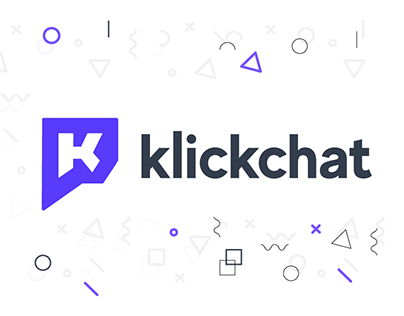
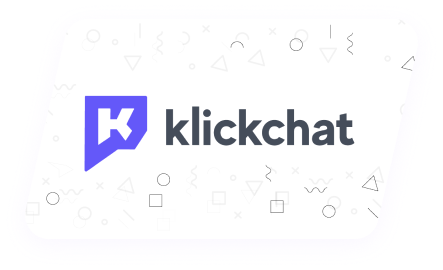
0.2

diff --git a/css/main.min.css b/css/main.min.css
@@ -1,1 +1,1 @@
-body{font-family:"Poppins", sans-serif;background:#edf2f7}.container{max-width:1110px;margin:0 auto}.wip{margin-top:40px;margin-bottom:80px}.wip .wip-header{display:-webkit-box;display:-ms-flexbox;display:flex;-ms-flex-line-pack:center;align-content:center;-webkit-box-pack:start;-ms-flex-pack:start;justify-content:flex-start}.wip svg{width:24px;display:inline-block}.wip h1{margin-left:5px;margin-bottom:5px;display:inline-block;color:#718096}.wip li{color:#A0AEC0;font-size:12px}section .project-card{-webkit-transform-style:preserve-3d;transform-style:preserve-3d;width:405px}section .project-card .image-holder .image-holder--image{height:220px;border-radius:24px;display:inline-block}section .project-card .image-holder .image-holder--image::after{background:url("/img/projects/klickchat.png");background-position:center;background-size:cover;height:220px;width:405px;border-radius:24px;position:absolute;content:"";top:0;left:0;-webkit-transform:skew(-10deg);transform:skew(-10deg);z-index:-1;-webkit-box-shadow:0px 6px 25px rgba(184,149,245,0.08);box-shadow:0px 6px 25px rgba(184,149,245,0.08);border-radius:24px}section .project-card .info-center{-webkit-transform:translateZ(50px);transform:translateZ(50px);margin:0 auto;width:60%;margin-top:-65px}section .project-card .info{margin:0 auto;padding:20px 24px 5px 24px}section .project-card .info::after{background:#ffffff;-webkit-box-shadow:0px 8px 24px rgba(214,188,250,0.35);box-shadow:0px 8px 24px rgba(214,188,250,0.35);height:100%;width:100%;border-radius:10px;position:absolute;content:"";top:0;left:0;-webkit-transform:skew(-10deg);transform:skew(-10deg);z-index:-1}section .project-card .info .sub-heading{border-radius:99px;font-style:normal;font-weight:500;font-size:12px;line-height:18px;letter-spacing:0.02em;text-transform:uppercase;color:#9f7aea;padding:5px 17px;background-color:#e8e6fe;margin-bottom:5px;-webkit-box-align:center;-ms-flex-align:center;align-items:center}section .project-card .info .title{font-style:normal;font-weight:500;font-size:24px;line-height:36px;color:#1a202c;-webkit-box-align:center;-ms-flex-align:center;align-items:center}
+body{font-family:"Poppins", sans-serif;background:#edf2f7;border-top:8px solid #4d47ef;-webkit-transition-timing-function:ease-in-out;transition-timing-function:ease-in-out}.container{max-width:1110px;margin:0 auto}.tracking-in-contract-bck{-webkit-animation:tracking-in-contract-bck 1s cubic-bezier(0.215, 0.61, 0.355, 1) 100ms both;animation:tracking-in-contract-bck 1s cubic-bezier(0.215, 0.61, 0.355, 1) 100ms both}@-webkit-keyframes tracking-in-contract-bck{0%{letter-spacing:1em;-webkit-transform:translateZ(400px);transform:translateZ(400px);opacity:0}40%{opacity:0.6}100%{-webkit-transform:translateZ(0);transform:translateZ(0);opacity:1}}@keyframes tracking-in-contract-bck{0%{letter-spacing:1em;-webkit-transform:translateZ(400px);transform:translateZ(400px);opacity:0}40%{opacity:0.6}100%{-webkit-transform:translateZ(0);transform:translateZ(0);opacity:1}}.gradient{background-image:linear-gradient(264deg, #4d47ef, #9733ee, #da22ff);background-size:600% 600%;-webkit-animation:AnimationName 5s ease infinite;animation:AnimationName 5s ease infinite;background-clip:text}@-webkit-keyframes AnimationName{0%{background-position:0% 50%}50%{background-position:100% 50%}100%{background-position:0% 50%}}@keyframes AnimationName{0%{background-position:0% 50%}50%{background-position:100% 50%}100%{background-position:0% 50%}}.wip{position:fixed;left:40px;margin-top:40px;margin-bottom:80px}.wip .wip-header{display:-webkit-box;display:-ms-flexbox;display:flex;-ms-flex-line-pack:center;align-content:center;-webkit-box-pack:start;-ms-flex-pack:start;justify-content:flex-start}.wip svg{width:24px;display:inline-block}.wip h1{margin-left:5px;margin-bottom:5px;display:inline-block;color:#718096}.wip li{color:#a0aec0;font-size:12px}header{height:600px;display:-webkit-box;display:-ms-flexbox;display:flex;-webkit-box-orient:vertical;-webkit-box-direction:normal;-ms-flex-direction:column;flex-direction:column;-webkit-box-pack:center;-ms-flex-pack:center;justify-content:center;-webkit-box-align:center;-ms-flex-align:center;align-items:center;-ms-flex-line-pack:center;align-content:center;background:-webkit-gradient(linear, left top, left bottom, from(white), to(#edf2f7));background:linear-gradient(to bottom, white, #edf2f7)}header .big-text h1{font-size:144px;font-weight:600;line-height:90%;text-align:center;background-image:linear-gradient(264deg, #4d47ef, #7d00dc, #c17af8);background-size:600% 600%;-webkit-animation:AnimationName 5s ease infinite;animation:AnimationName 5s ease infinite;background-clip:text;background-size:600%;background-repeat:repeat;-webkit-background-clip:text;-webkit-text-fill-color:transparent}section{padding:5rem 0}section .image-holder{margin:0 auto;max-width:100%}section img{display:inline-block;-webkit-filter:grayscale(100%);filter:grayscale(100%);opacity:0.5;-webkit-transition:all 0.1s ease-in-out;transition:all 0.1s ease-in-out}section .project-card-grid{display:-ms-grid;display:grid;-ms-grid-columns:(minmax(440px, 1fr))[auto-fit];grid-template-columns:repeat(auto-fit, minmax(440px, 1fr));justify-items:safe center;-webkit-box-align:center;-ms-flex-align:center;align-items:center;-webkit-box-pack:justify;-ms-flex-pack:justify;justify-content:space-between;-ms-flex-line-pack:justify;align-content:space-between}section .project-card{-webkit-transform-style:preserve-3d;transform-style:preserve-3d;width:450px;margin-bottom:85px}section .project-card .info-center{-webkit-transform:translateZ(50px);transform:translateZ(50px);margin-left:90px;width:228px;margin-top:-85px}section .project-card .info{padding:20px 24px 5px 24px}section .project-card .info::after{background:#fff;height:100%;width:100%;border-radius:10px;position:absolute;content:"";top:0;left:0;-webkit-transform:skew(-10deg);transform:skew(-10deg);z-index:-1;-webkit-transition:all 0.1s ease-in-out;transition:all 0.1s ease-in-out;-webkit-box-shadow:0px 8px 24px rgba(214,188,250,0);box-shadow:0px 8px 24px rgba(214,188,250,0)}section .project-card .info .sub-heading{border-radius:99px;font-style:normal;font-weight:500;font-size:12px;line-height:18px;letter-spacing:0.02em;text-transform:uppercase;color:#9f7aea;padding:5px 17px;background-color:#e8e6fe;margin-bottom:3px;-webkit-box-align:center;-ms-flex-align:center;align-items:center;display:inline-block}section .project-card .info .title{font-style:normal;font-weight:500;font-size:24px;line-height:36px;color:#1a202c;-webkit-box-align:center;-ms-flex-align:center;align-items:center;display:inline-block}section .project-card:hover img{-webkit-filter:grayscale(0%);filter:grayscale(0%);opacity:1;-webkit-filter:drop-shadow(0px 6px 25px rgba(184,149,245,0.08));filter:drop-shadow(0px 6px 25px rgba(184,149,245,0.08))}section .project-card:hover .info::after{-webkit-transition:all 2s ease;transition:all 2s ease;-webkit-box-shadow:0px 8px 24px rgba(214,188,250,0.35);box-shadow:0px 8px 24px rgba(214,188,250,0.35)}

diff --git a/index.html b/index.html
@@ -13,6 +13,7 @@
             rel="stylesheet"
         />
         <link rel="stylesheet" href="css/main.min.css" />
+        <link rel="stylesheet" href="https://unpkg.com/aos@next/dist/aos.css" />
     </head>
     <body>
         <div class="wip container">
@@ -30,29 +31,83 @@
                         d="M12 9v2m0 4h.01m-6.938 4h13.856c1.54 0 2.502-1.667 1.732-3L13.732 4c-.77-1.333-2.694-1.333-3.464 0L3.34 16c-.77 1.333.192 3 1.732 3z"
                     />
                 </svg>
-                <h1>Work in progress! TODO:</h1>
+                <h1>Work in progress! </h1>
             </div>
-            <ul>
-                <li>- Add before hover state.</li>
+            <!-- <ul>
                 <li>- Mobile responsive design.</li>
                 <li>- Add link to behance project.</li>
-            </ul>
+            </ul> -->
         </div>
+
+        <header id="tsparticles">
+            <div data-aos="zoom-out-down" class="container">
+                <div class="big-text tracking-in-contract-bck">
+                    <h1>Priyum</h1>
+                    <h1>Kochhar</h1>
+                </div>
+            </div>
+        </header>
+
         <section>
-            <div class="container">
-                <div data-tilt class="project-card">
-                    <div class="image-holder">
-                        <div class="image-holder--image"></div>
+            <div class="container project-card-grid">
+                <div data-aos="zoom-out-up">
+                    <div data-tilt class="project-card">
+                        <div class="image-holder">
+                            <img src="img/projects/klickchat.png" alt="" />
+                        </div>
+                        <div class="info-center">
+                            <div class="info">
+                                <div class="sub-heading">Branding Project</div>
+                                <div class="title">Klickchat</div>
+                            </div>
+                        </div>
                     </div>
-                    <div class="info-center">
-                        <div class="info">
-                            <div class="sub-heading">Branding Project</div>
-                            <div class="title">Klickchat</div>
+                </div>
+                <div data-aos="zoom-out-up">
+                    <div data-tilt class="project-card">
+                        <div class="image-holder">
+                            <img src="img/projects/cooq_.png" alt="" />
+                        </div>
+                        <div class="info-center">
+                            <div class="info">
+                                <div class="sub-heading">Branding Project</div>
+                                <div class="title">COOQ</div>
+                            </div>
+                        </div>
+                    </div>
+                </div>
+                <div data-aos="zoom-out-up">
+                    <div data-tilt class="project-card">
+                        <div class="image-holder">
+                            <img src="img/projects/mascot_.png" alt="" />
+                        </div>
+                        <div class="info-center">
+                            <div class="info">
+                                <div class="sub-heading">Logofolios</div>
+                                <div class="title">Mascot Logos</div>
+                            </div>
+                        </div>
+                    </div>
+                </div>
+                <div data-aos="zoom-out-up">
+                    <div data-tilt class="project-card">
+                        <div class="image-holder">
+                            <img src="img/projects/logo-marks_.png" alt="" />
+                        </div>
+                        <div class="info-center">
+                            <div class="info">
+                                <div class="sub-heading">Logofolios</div>
+                                <div class="title">Logo & Marks</div>
+                            </div>
                         </div>
                     </div>
                 </div>
             </div>
         </section>
         <script src="js/vanilla-tilt.min.js"></script>
+        <script src="https://unpkg.com/aos@next/dist/aos.js"></script>
+        <script>
+            AOS.init();
+        </script>
     </body>
 </html>
